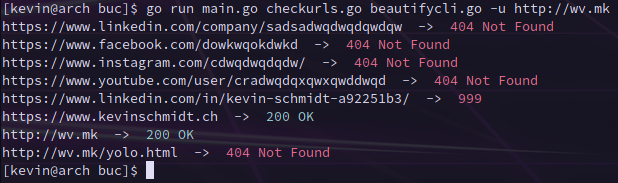
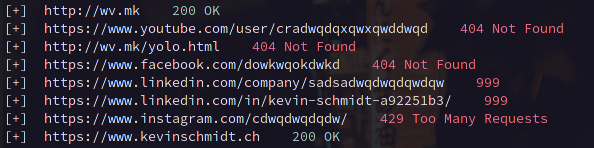
Read urls from a file

diff --git a/main.go b/main.go
@@ -4,30 +4,46 @@ import (
 	"fmt"
 	"flag"
 	"os"
-	"strings"
+	_"strings"
 )
 
 
 func main() {
 
 	var url string
-	flag.StringVar(&url, "u", "", "Url for dead links checker")
+	flag.StringVar(&url, "u", "", "URL for dead links checker")
+
+	var filename string
+	flag.StringVar(&filename, "f", "", "file containing URLs to test")
 
 	var writeToFile string 
 	flag.StringVar(&writeToFile, "w", "", "Filename for storage")
 
 	flag.Parse()
 
-	if url == "" {
+	var params string
+
+	if url != ""{
+		params = "u"
+		fmt.Println("URL")
+	}else if filename != ""{
+		params = "f"
+		fmt.Println("File")
+	}else{
+		params = ""
 		flag.PrintDefaults()
 		os.Exit(0)
 	}
 
-	if strings.HasPrefix(url, "http") == false {
-		fmt.Println("Please enter a scheme like http before the url")
-		os.Exit(0)
+	if params == "f" {
+		urls, _ := readUrlsFromFile(filename)
+		for i := 0 ; i < len(urls) ; i++ {
+			checkDeadLinks(urls[i])
+		}
 	}
-	
-	checkDeadLinks(url)
+
+	if params == "u" {
+		checkDeadLinks(url)
+	}
 
 }

diff --git a/handlefiles.go b/handlefiles.go
@@ -7,12 +7,14 @@ import (
 	"os"
 )
 
-
-func readUrlsFromFile(path string) ([]string, error) {
+//https://stackoverflow.com/questions/5884154/read-text-file-into-string-array-and-write
+func readUrlsFromFile(path string) ([]string, error){
 	f, err := os.Open(path)
 
 	if err != nil {
-		return nil, err
+		//return nil, err
+		fmt.Println("[+] Error occured during file handling ...")
+		os.Exit(0)
 	}
 
 	defer f.Close()
@@ -22,6 +24,7 @@ func readUrlsFromFile(path string) ([]string, error) {
 	for scanner.Scan() {
 		lines = append(lines, scanner.Text())
 	}
+
 	return lines, scanner.Err()
 }
 
